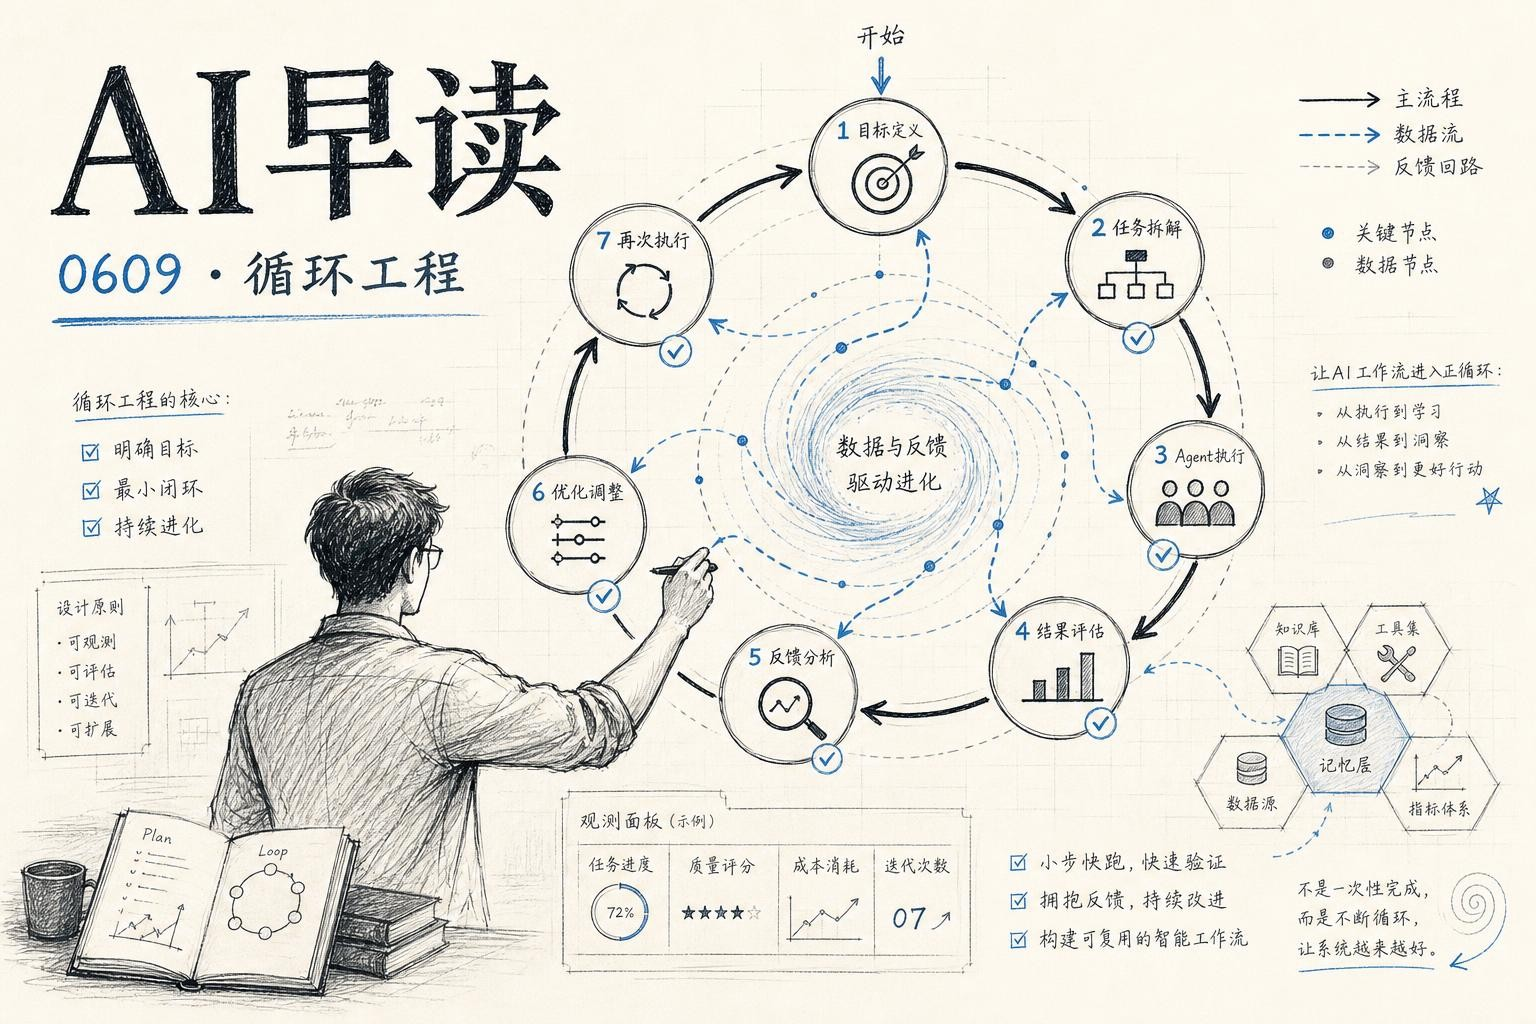
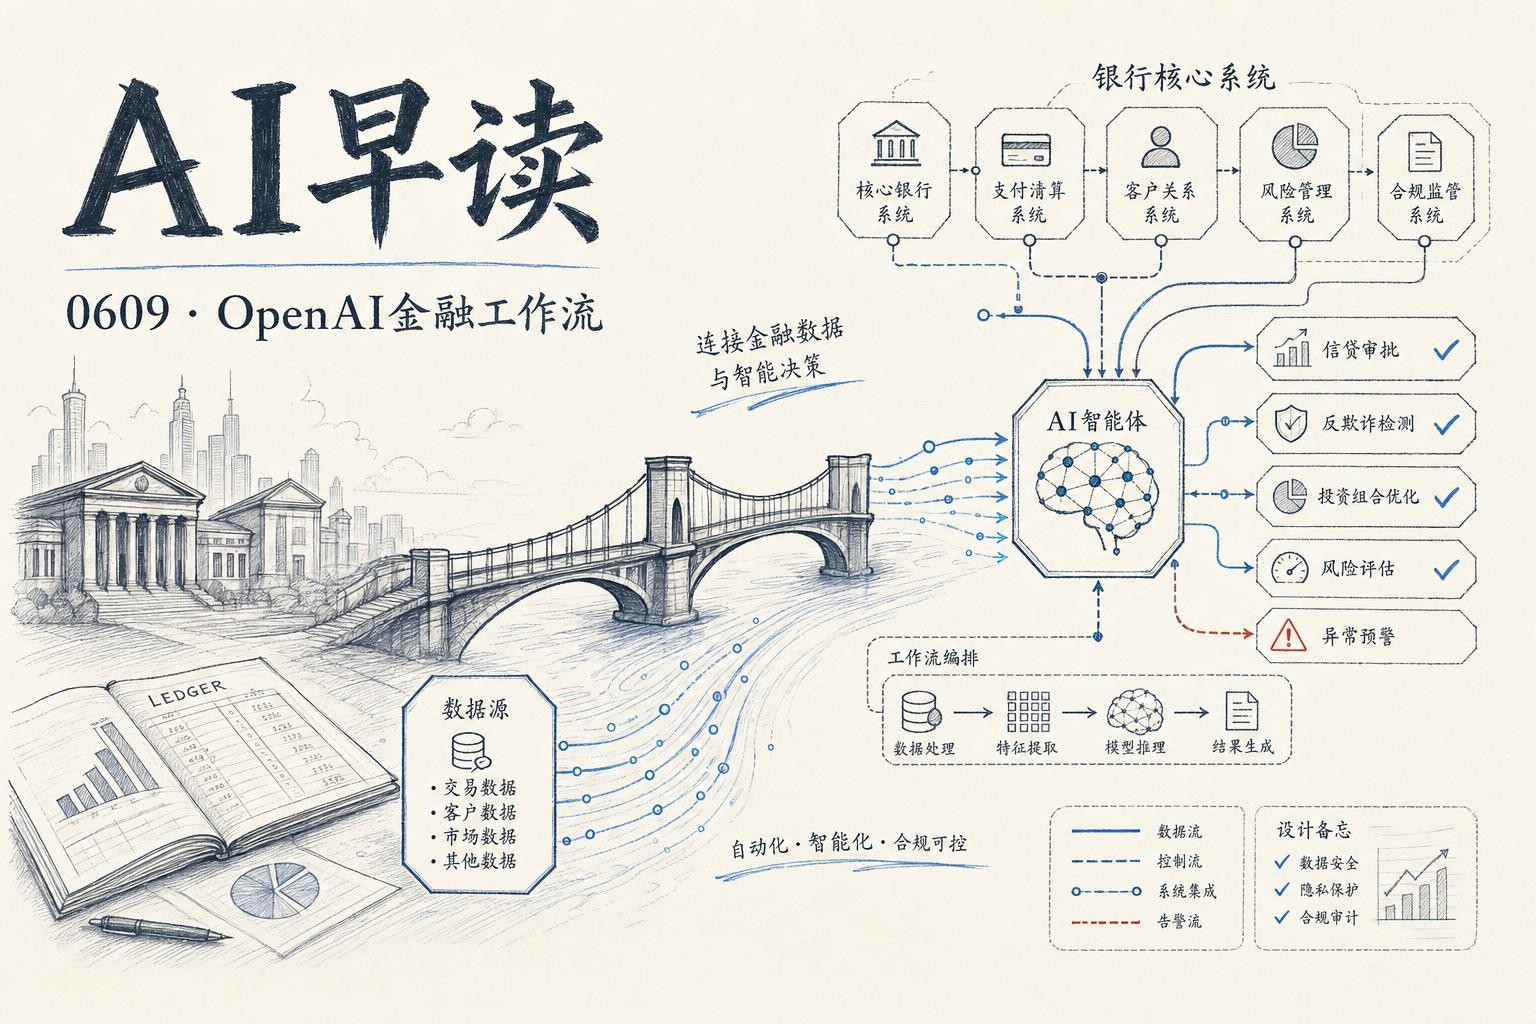
ai daily 2026-06-09

Changed region(s): [[0.0, 0.0312, 1.0, 1.0], [0.6875, 0.0625, 0.8438, 0.0938], [0.5, 0.9062, 0.5625, 0.9375]]

diff --git a/ai-daily-2026-06-09.md b/ai-daily-2026-06-09.md
@@ -1,63 +1,52 @@
 ---
-title: "【AI早读 0609】循环工程：从手动提示到自动化Agent环路
+title: "【AI早读 0609】OpenAI连续发布金融行业AI实战案例"
 date: 2026-06-09
-tags:
-  - AI早读
-  - Loop Engineering
-  - Coding Agents
-  - DeepSeek
-  - Claude Code
-  - Codex
-  - Gemma 4
+tags: [OpenAI, 金融科技, AI工作流, 企业AI, AI应用]
 ---
 
 ![cover](images/ai-daily-2026-06-09.jpg)
 
-Peter Steinberger 前两天发了一条推：“你不应该再手动给 coding agent 写 prompt 了。你应该设计一个 loop，让 loop 来给你的 agent 写 prompt。” Anthropic Claude Code 的负责人 Boris Cherny 也说了几乎一样的话：“我已经不直接 prompt Claude 了。我跑着十几个 loop，每个 loop 都在 prompt Claude 告诉我下一步该做什么。我的工作变成了写 loop。”
+OpenAI 在昨天集中上线了一批 Ignite 大会的演讲视频，覆盖 AI 工作流落地、金融服务场景和产品驱动增长等多个方向。我会梳理其中的关键内容，看看 OpenAI 最近在企业侧讲了哪些实用案例和经验。期望对关注企业 AI 部署的读者有所帮助。
 
-Addy Osmani 把这事系统地讲了一遍。他刚发了一篇《Loop Engineering》，拆了五个构建块加一个状态层 - 五个块在 Codex app 和 Claude Code 里都已经有直接对应。
+## 工作流里的 AI 落地
 
-链接：[Loop Engineering](https://addyosmani.com/blog/loop-engineering/)
+在 `Operationalizing AI in workflows` 这场分享里，OpenAI 的方案工程师 Lee Spacagna 展示了一套企业级 AI 的落地框架。核心思路并不复杂：把 AI 当作工作流中的一个组件来对待，而不是一个独立的“智能层”。
 
-## 五个构建块
+关键点在于几个层面 - 首先是数据流的衔接，需要保证 AI 调用的是企业已有的业务数据而非孤立信息。其次是可控性，公司在工作流里引入 AI 时必须能干预、审计和回滚。Lee 反复强调的一个观点是：不要试图让 AI 决定业务流程，而是让 AI 在业务流程的某个明确节点上做决策。
 
-Addy 说的 loop 需要五样东西，然后是记状态的地方。
+链接：[Operationalizing AI in workflows: Lee Spacagna, Solutions Engineer, OpenAI](https://www.youtube.com/watch?v=fAxlEcXiSts)
 
-第一是 **Automations** - 定时跑的任务，自己做发现和三方。Codex 的 Automation tab 里选项目、选 prompt、选频次，跑出结果的进 Triage inbox，空跑的自动归档。Claude Code 这边通过 `/loop`、cron 和 hooks 做到同一个事。第二是 **Worktrees** - 两个 agent 同时干活时不踩到对方文件。Codex 内置 worktree 机制，Claude Code 用 git worktree。第三是 **Skills** - 把项目知识写进 SKILL.md，agent 不用靠猜。第四是 **Plugins / Connectors** - MCP server 和各种插件把 agent 连到现有的工具上去。第五是 **Sub-agents** - 一个 agent 想方案，另一个来验证，而不是同一个人写代码又给自己打评分。
+## 前沿智能与金融服务
 
-最后是 **Memory**。一个 markdown 文件或者 Linear board，放在对话之外。agent 每次跑完就忘了，但 repo 不会忘。
+Katy Elkin（OpenAI GTM Lead）在 `Frontier Intelligence & Financial Services` 里专门讲了金融服务这个垂直领域的特殊需求。金融行业对准确性、合规性和延迟都有极高要求，恰好也能承受更高的基础设施投入。
 
-这两家产品的名字不一样，能力集却几乎镜像。Addy 的表格直接画出了对应关系 - Automations、Worktrees、Skills、Plugins、Sub-agents，都是同样的五个形状。
+她提到的一个观察比较有意思 - 金融客户对 AI 的诉求已经从“帮我们分析数据”变成了“帮我们嵌入到实时交易决策链里”。这意味着模型需要更快的推理、更低的幻觉率，以及更透明的推理过程。这不是把 ChatGPT 接上 API 就行的事，而是要从架构层面重新设计。
 
-## Loop 的心脏是 Automations
+链接：[Frontier Intelligence & Financial Services: Katy Elkin, GTM Lead, OpenAI](https://www.youtube.com/watch?v=ykNmTvRcqPQ)
 
-让 loop 真正转起来的是自动调度，而不是一次性的手动开跑。
+## 银行客户是怎么用的
 
-Codex 的 Automations 可以设置成每天跑一个 skill，检查新 issue、摘要 CI 失败、写 commit 简报。Claude Code 的 `/loop` 和 `/goal` 也是同一个逻辑 - `/loop` 按间隔反复执行，`/goal` 持续跑到你设定的条件为真才算完，每一步由一个小模型独立判断是否完成，不是写代码的那个 agent 自己给自己打分。
+三场 Customer Ignite Talk 展示了非常不同的切入点：
 
-OpenAI 的 Solutions Engineer Lee Spacagna 在最近的 Ignite 活动上讲了怎么把 AI 运营化到工作流中。主题一样 - 不是让人去调模型，而是让流程自己跑，人在旁边看着例外情况就行。
+Erste Group 的 Maurizio Poletto 侧重银行平台层的 AI 整合策略 - 不是说 AI 能做什么，而是银行的基础设施该怎么改造才能接住 AI。LSEG 的 Emily Prince 从集团角度讲数据与 AI 的协同，LSEG 本身拥有庞大的金融数据集，AI 的理解能力让这些数据产生了新的价值。Allica Bank 的 Ravneet Shah 作为一家英国挑战者银行的 CTO，分享的是小银行怎么用 AI 缩小与大行的差距，而不是铺一个大平台。
 
-链接：[Operationalizing AI in workflows](https://www.youtube.com/watch?v=fAxlEcXiSts)
+三家的共同点是：都没有把 AI 当作一个单独的产品来推，而是把它嵌到了已有的客户交互、风险管理和运营流程里。
 
-## DeepSeek V4 Pro 在精度上超越 GPT-5.5 Pro
+链接：[Customer Ignite Talk: Maurizio Poletto (Chief Platform Officer & COO, Erste Group) & OpenAI](https://www.youtube.com/watch?v=gli3gNI2saU)
 
-一个值得关注的消息是 DeepSeek V4 Pro 在精度评测中超过了 GPT-5.5 Pro。目前还没有完整的 benchmark 对比文档流出，但这条新闻已经在 HN 和多个渠道传开了。开源的追赶速度比大多数人预期的快 - 前一代还在缩小差距，这一代已经到了某些指标上反超的程度。
+链接：[Customer Ignite Talk: Emily Prince (Group Head of AI, LSEG) & OpenAI](https://www.youtube.com/watch?v=LJKzZAH0bEw)
 
-链接：[DeepSeek V4 Pro beats GPT-5.5 Pro on precision](https://runtimewire.com/article/deepseek-v4-pro-beats-gpt-5-5-pro-on-precision)
+链接：[Customer Ignite Talk: Ravneet Shah (CTO, Allica Bank) & OpenAI](https://www.youtube.com/watch?v=pcAtJDBO3hw)
 
-## Gemma 4 和 QAT 的社区反馈
+## 产品驱动的 AI 增长
 
-Google 的 Gemma 4 系列继续在社区发酵。12B QAT 版本在 r/LocalLLaMA 上被多个用户测过，结论不算乐观 - 有人直言“被 hype 了，对我的场景是退步”。但也有声音说 Q4_0 精度比 Unsloth 的 Q4_K_XL 更强，31B 的 FP8 版本甚至接近 Sonnet 4.6 Medium 水平。这种两级分化的反馈其实正常 - QAT 的时间点才是关键，量化校准做得好不好，不同任务上差异巨大。
+Conor Spicer 的 `Win through AI powered products` 从另一个维度切入 - AI 产品怎么从工具变成增长引擎。他提出 AI 产品要解决的是“用户愿意主动使用”而非“你觉得好用”的问题。在实践中，这意味着产品团队需要跟踪 AI 功能的使用率和留存，而不是只看模型准确率。
 
-一起被讨论的还有 Macaron-V1-Preview-749B，一个来自 mindlab-research 的新 749B 参数模型，规模惊人。
+Stephanie Anani 在 `Multiplying workforce impact` 里则从人力杠杆角度讲 - AI 不是用来替代人的，而是让人能处理更多变体。这在客服、合规审核、报告生成这类高频低风险场景里效果最明显。
 
-链接：[Thoughts on Gemma4 12b vs 26a4b](https://www.reddit.com/r/LocalLLaMA/comments/1tzzcja/thoughts_on_gemma4_12b_vs_26a4b_which_one_is/)
+链接：[Win through AI powered products: Conor Spicer, Solutions Engineer, OpenAI](https://www.youtube.com/watch?v=re-18gil_ec)
 
-## agents.md 是否真的帮到了 coding agent 们
-
-Sebastian Raschka 在问一个实际问题 - agents.md 文件对 coding agent 到底有没有帮助？这是一个挺微妙的问题。从 Addy 的 Loop Engineering 框架来看，答案应该是“有，但前提是你把 agents.md 当作 Memory 的一部分来维护，而不是一份写一次就再也不看的说明书”。多个工程团队的经验是，agents.md 如果保持更新、写清楚构建命令和项目约定，agent 的初始命中率会明显提高。如果只是模板填充就不如不写。
-
-链接：[Do agents.md files help coding agents?](https://twitter.com/rasbt/status/2063649136323252397)
+链接：[Multiplying workforce impact: Stephanie Anani, Solutions Engineer, OpenAI](https://www.youtube.com/watch?v=m2TV8slGQKc)
 
 ---
 
